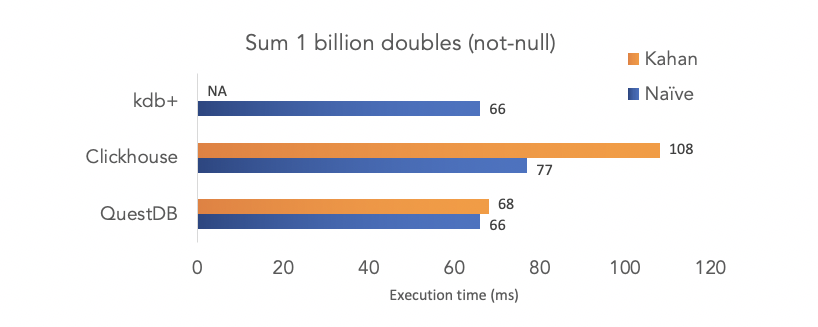
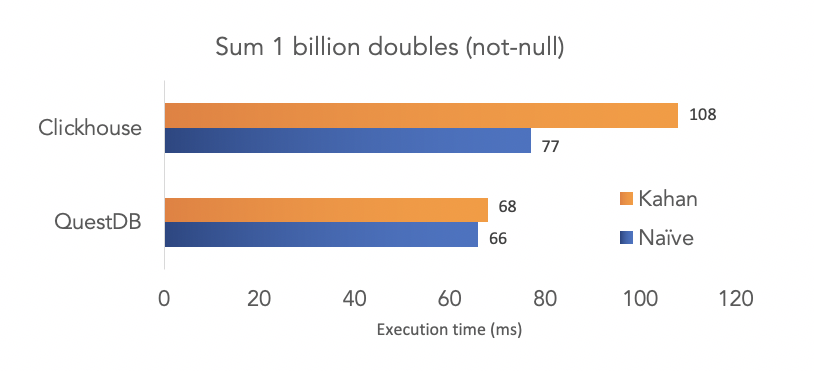
Deploy website
Deploy website version based on e8d3351652449071a6db6250c95f780d441726ca

diff --git a/blog/2020/05/01/faster-more-accurate-sums.html b/blog/2020/05/01/faster-more-accurate-sums.html
@@ -296,7 +296,7 @@ fast as Kahan for the same reason.</strong></p>
 <p>We compared how performance behaves when switching from naive (inaccurate) sum to kahan compensated sum.</p>
 <h4><a class="anchor" aria-hidden="true" id="hardware"></a><a href="#hardware" aria-hidden="true" class="hash-link"><svg class="hash-link-icon" aria-hidden="true" height="16" version="1.1" viewBox="0 0 16 16" width="16"><path fill-rule="evenodd" d="M4 9h1v1H4c-1.5 0-3-1.69-3-3.5S2.55 3 4 3h4c1.45 0 3 1.69 3 3.5 0 1.41-.91 2.72-2 3.25V8.59c.58-.45 1-1.27 1-2.09C10 5.22 8.98 4 8 4H4c-.98 0-2 1.22-2 2.5S3 9 4 9zm9-3h-1v1h1c1 0 2 1.22 2 2.5S13.98 12 13 12H9c-.98 0-2-1.22-2-2.5 0-.83.42-1.64 1-2.09V6.25c-1.09.53-2 1.84-2 3.25C6 11.31 7.55 13 9 13h4c1.45 0 3-1.69 3-3.5S14.5 6 13 6z"></path></svg></a>Hardware</h4>
 <p>We run all databases on an <code>c5.metal</code> AWS instance, which is a 96-thread machine with 192GB of memory.
-QuestDB and KDB were running on 16 threads. As we showed in a <a href="2020-04-02-using-simd-to-aggregate-billions-of-rows-per-second.md">previous article</a>,
+QuestDB was running on 16 threads. As we showed in a <a href="2020-04-02-using-simd-to-aggregate-billions-of-rows-per-second.md">previous article</a>,
 adding more threads does not improve performance beyond a certain point. Clickhouse was running using all cores as per default configuration,
 however we increased the memory limit from the default value of 10GB to 40GB <code>&lt;max_memory_usage&gt;40000000000&lt;/max_memory_usage&gt;</code></p>
 <h4><a class="anchor" aria-hidden="true" id="test-data"></a><a href="#test-data" aria-hidden="true" class="hash-link"><svg class="hash-link-icon" aria-hidden="true" height="16" version="1.1" viewBox="0 0 16 16" width="16"><path fill-rule="evenodd" d="M4 9h1v1H4c-1.5 0-3-1.69-3-3.5S2.55 3 4 3h4c1.45 0 3 1.69 3 3.5 0 1.41-.91 2.72-2 3.25V8.59c.58-.45 1-1.27 1-2.09C10 5.22 8.98 4 8 4H4c-.98 0-2 1.22-2 2.5S3 9 4 9zm9-3h-1v1h1c1 0 2 1.22 2 2.5S13.98 12 13 12H9c-.98 0-2-1.22-2-2.5 0-.83.42-1.64 1-2.09V6.25c-1.09.53-2 1.84-2 3.25C6 11.31 7.55 13 9 13h4c1.45 0 3-1.69 3-3.5S14.5 6 13 6z"></path></svg></a>Test data</h4>
@@ -308,24 +308,23 @@ select rnd_double(2) from long_sequence(1_000_000_000l); -- with nulls
 <h4><a class="anchor" aria-hidden="true" id="storage-engine"></a><a href="#storage-engine" aria-hidden="true" class="hash-link"><svg class="hash-link-icon" aria-hidden="true" height="16" version="1.1" viewBox="0 0 16 16" width="16"><path fill-rule="evenodd" d="M4 9h1v1H4c-1.5 0-3-1.69-3-3.5S2.55 3 4 3h4c1.45 0 3 1.69 3 3.5 0 1.41-.91 2.72-2 3.25V8.59c.58-.45 1-1.27 1-2.09C10 5.22 8.98 4 8 4H4c-.98 0-2 1.22-2 2.5S3 9 4 9zm9-3h-1v1h1c1 0 2 1.22 2 2.5S13.98 12 13 12H9c-.98 0-2-1.22-2-2.5 0-.83.42-1.64 1-2.09V6.25c-1.09.53-2 1.84-2 3.25C6 11.31 7.55 13 9 13h4c1.45 0 3-1.69 3-3.5S14.5 6 13 6z"></path></svg></a>Storage engine</h4>
 <ul>
 <li><strong>QuestDB</strong>: on disk</li>
-<li><strong>kdb+</strong>: in memory as an array</li>
 <li><strong>Clickhouse</strong>: in memory using the <code>memory()</code> engine</li>
 </ul>
 <blockquote>
-<p>We used the fastest method available for all databases. However, it is worth noting that both kdb and Clickhouse were
+<p>We used the fastest method available for all databases. However, it is worth noting that Clickhouse was
 in-memory while QuestDB was storing the data on disk.</p>
 </blockquote>
 <h4><a class="anchor" aria-hidden="true" id="commands"></a><a href="#commands" aria-hidden="true" class="hash-link"><svg class="hash-link-icon" aria-hidden="true" height="16" version="1.1" viewBox="0 0 16 16" width="16"><path fill-rule="evenodd" d="M4 9h1v1H4c-1.5 0-3-1.69-3-3.5S2.55 3 4 3h4c1.45 0 3 1.69 3 3.5 0 1.41-.91 2.72-2 3.25V8.59c.58-.45 1-1.27 1-2.09C10 5.22 8.98 4 8 4H4c-.98 0-2 1.22-2 2.5S3 9 4 9zm9-3h-1v1h1c1 0 2 1.22 2 2.5S13.98 12 13 12H9c-.98 0-2-1.22-2-2.5 0-.83.42-1.64 1-2.09V6.25c-1.09.53-2 1.84-2 3.25C6 11.31 7.55 13 9 13h4c1.45 0 3-1.69 3-3.5S14.5 6 13 6z"></path></svg></a>Commands</h4>
 <h5><a class="anchor" aria-hidden="true" id="with-null"></a><a href="#with-null" aria-hidden="true" class="hash-link"><svg class="hash-link-icon" aria-hidden="true" height="16" version="1.1" viewBox="0 0 16 16" width="16"><path fill-rule="evenodd" d="M4 9h1v1H4c-1.5 0-3-1.69-3-3.5S2.55 3 4 3h4c1.45 0 3 1.69 3 3.5 0 1.41-.91 2.72-2 3.25V8.59c.58-.45 1-1.27 1-2.09C10 5.22 8.98 4 8 4H4c-.98 0-2 1.22-2 2.5S3 9 4 9zm9-3h-1v1h1c1 0 2 1.22 2 2.5S13.98 12 13 12H9c-.98 0-2-1.22-2-2.5 0-.83.42-1.64 1-2.09V6.25c-1.09.53-2 1.84-2 3.25C6 11.31 7.55 13 9 13h4c1.45 0 3-1.69 3-3.5S14.5 6 13 6z"></path></svg></a>With null</h5>
 <table>
 <thead>
-<tr><th>Description</th><th>QuestDB</th><th>Clickhouse</th><th>kdb+</th></tr>
+<tr><th>Description</th><th>QuestDB</th><th>Clickhouse</th></tr>
 </thead>
 <tbody>
-<tr><td>DDL</td><td><code>create table test_double as(select rnd_double() from long_sequence(1000000000L);</code></td><td><code>CREATE TABLE test_double (val Nullable(Float64)) Engine=Memory;</code></td><td><code>zz:1000000000?1000.0</code> <code>zz:?[zz&lt;100;0Nf;zz]</code></td></tr>
-<tr><td>Import</td><td>not required</td><td><code>clickhouse-client --query=&quot;INSERT INTO test_double FORMAT CSVWithNames;&quot; &lt; test_double.csv</code></td><td>not required</td></tr>
-<tr><td>Naive sum</td><td><code>select sum(val) from test_double</code></td><td><code>SELECT sum(val) FROM test_double</code></td><td><code>\t sum zz</code></td></tr>
-<tr><td>Kahan sum</td><td><code>select ksum(val) from test_double</code></td><td><code>SELECT sumKahan(val) FROM test_double</code></td><td>n/a</td></tr>
+<tr><td>DDL</td><td><code>create table test_double as(select rnd_double() from long_sequence(1000000000L);</code></td><td><code>CREATE TABLE test_double (val Nullable(Float64)) Engine=Memory;</code></td></tr>
+<tr><td>Import</td><td>not required</td><td><code>clickhouse-client --query=&quot;INSERT INTO test_double FORMAT CSVWithNames;&quot; &lt; test_double.csv</code></td></tr>
+<tr><td>Naive sum</td><td><code>select sum(val) from test_double</code></td><td><code>SELECT sum(val) FROM test_double</code></td></tr>
+<tr><td>Kahan sum</td><td><code>select ksum(val) from test_double</code></td><td><code>SELECT sumKahan(val) FROM test_double</code></td></tr>
 </tbody>
 </table>
 <h5><a class="anchor" aria-hidden="true" id="non-null"></a><a href="#non-null" aria-hidden="true" class="hash-link"><svg class="hash-link-icon" aria-hidden="true" height="16" version="1.1" viewBox="0 0 16 16" width="16"><path fill-rule="evenodd" d="M4 9h1v1H4c-1.5 0-3-1.69-3-3.5S2.55 3 4 3h4c1.45 0 3 1.69 3 3.5 0 1.41-.91 2.72-2 3.25V8.59c.58-.45 1-1.27 1-2.09C10 5.22 8.98 4 8 4H4c-.98 0-2 1.22-2 2.5S3 9 4 9zm9-3h-1v1h1c1 0 2 1.22 2 2.5S13.98 12 13 12H9c-.98 0-2-1.22-2-2.5 0-.83.42-1.64 1-2.09V6.25c-1.09.53-2 1.84-2 3.25C6 11.31 7.55 13 9 13h4c1.45 0 3-1.69 3-3.5S14.5 6 13 6z"></path></svg></a>Non-null</h5>
@@ -333,16 +332,14 @@ in-memory while QuestDB was storing the data on disk.</p>
 <ul>
 <li>use <code>test_double_not_nul.csv</code> instead of <code>test_double.csv</code>.</li>
 <li>for Clickhouse, skip declaring val as <code>nullable</code>: <code>CREATE TABLE test_double_not_null (val Float64) Engine=Memory;</code>.</li>
-<li>for kdb+, only run <code>zz:1000000000?1000.0</code> at the DDL step.</li>
 <li>for QuestDB, replace <code>rnd_double()</code> by <code>rnd_double(2)</code> at the DDL step.</li>
 </ul>
 <h4><a class="anchor" aria-hidden="true" id="results"></a><a href="#results" aria-hidden="true" class="hash-link"><svg class="hash-link-icon" aria-hidden="true" height="16" version="1.1" viewBox="0 0 16 16" width="16"><path fill-rule="evenodd" d="M4 9h1v1H4c-1.5 0-3-1.69-3-3.5S2.55 3 4 3h4c1.45 0 3 1.69 3 3.5 0 1.41-.91 2.72-2 3.25V8.59c.58-.45 1-1.27 1-2.09C10 5.22 8.98 4 8 4H4c-.98 0-2 1.22-2 2.5S3 9 4 9zm9-3h-1v1h1c1 0 2 1.22 2 2.5S13.98 12 13 12H9c-.98 0-2-1.22-2-2.5 0-.83.42-1.64 1-2.09V6.25c-1.09.53-2 1.84-2 3.25C6 11.31 7.55 13 9 13h4c1.45 0 3-1.69 3-3.5S14.5 6 13 6z"></path></svg></a>Results</h4>
 <p>We ran each query several times and took the best result.</p>
 <p>Without null values, the three databases are summing naively at roughly the same speed. When using Kahan summation,
-QuestDB performs at the same speed and Clickhouse takes a performance hit of around 40%. kdb+ does not offer Kahan summation but is listed for reference.</p>
+QuestDB performs at the same speed and Clickhouse takes a performance hit of around 40%.</p>
 <p><img src="/blog/assets/kahan-naive-not-null.png" alt="alt-text"></p>
-<p>With null values, kdb takes a performance hit of 220% on naive calculation and Clickhouse of 28% and 50% for naive and Kahan summation
-respectively.</p>
+<p>With null values, Clickhouse takes a performance hit of 28% and 50% for naive and Kahan summation respectively.</p>
 <p><img src="/blog/assets/kahan-naive-null.png" alt="alt-text"></p>
 <p>We are conscious that this benchmark is not representative of any particular use case. We chose this test because
 it is a basic query, and is trivial to reproduce. With more complex queries, we expect QuestDB's performance gap to compound.

diff --git a/blog/2020/05/01/faster-more-accurate-sums/index.html b/blog/2020/05/01/faster-more-accurate-sums/index.html
@@ -296,7 +296,7 @@ fast as Kahan for the same reason.</strong></p>
 <p>We compared how performance behaves when switching from naive (inaccurate) sum to kahan compensated sum.</p>
 <h4><a class="anchor" aria-hidden="true" id="hardware"></a><a href="#hardware" aria-hidden="true" class="hash-link"><svg class="hash-link-icon" aria-hidden="true" height="16" version="1.1" viewBox="0 0 16 16" width="16"><path fill-rule="evenodd" d="M4 9h1v1H4c-1.5 0-3-1.69-3-3.5S2.55 3 4 3h4c1.45 0 3 1.69 3 3.5 0 1.41-.91 2.72-2 3.25V8.59c.58-.45 1-1.27 1-2.09C10 5.22 8.98 4 8 4H4c-.98 0-2 1.22-2 2.5S3 9 4 9zm9-3h-1v1h1c1 0 2 1.22 2 2.5S13.98 12 13 12H9c-.98 0-2-1.22-2-2.5 0-.83.42-1.64 1-2.09V6.25c-1.09.53-2 1.84-2 3.25C6 11.31 7.55 13 9 13h4c1.45 0 3-1.69 3-3.5S14.5 6 13 6z"></path></svg></a>Hardware</h4>
 <p>We run all databases on an <code>c5.metal</code> AWS instance, which is a 96-thread machine with 192GB of memory.
-QuestDB and KDB were running on 16 threads. As we showed in a <a href="2020-04-02-using-simd-to-aggregate-billions-of-rows-per-second.md">previous article</a>,
+QuestDB was running on 16 threads. As we showed in a <a href="2020-04-02-using-simd-to-aggregate-billions-of-rows-per-second.md">previous article</a>,
 adding more threads does not improve performance beyond a certain point. Clickhouse was running using all cores as per default configuration,
 however we increased the memory limit from the default value of 10GB to 40GB <code>&lt;max_memory_usage&gt;40000000000&lt;/max_memory_usage&gt;</code></p>
 <h4><a class="anchor" aria-hidden="true" id="test-data"></a><a href="#test-data" aria-hidden="true" class="hash-link"><svg class="hash-link-icon" aria-hidden="true" height="16" version="1.1" viewBox="0 0 16 16" width="16"><path fill-rule="evenodd" d="M4 9h1v1H4c-1.5 0-3-1.69-3-3.5S2.55 3 4 3h4c1.45 0 3 1.69 3 3.5 0 1.41-.91 2.72-2 3.25V8.59c.58-.45 1-1.27 1-2.09C10 5.22 8.98 4 8 4H4c-.98 0-2 1.22-2 2.5S3 9 4 9zm9-3h-1v1h1c1 0 2 1.22 2 2.5S13.98 12 13 12H9c-.98 0-2-1.22-2-2.5 0-.83.42-1.64 1-2.09V6.25c-1.09.53-2 1.84-2 3.25C6 11.31 7.55 13 9 13h4c1.45 0 3-1.69 3-3.5S14.5 6 13 6z"></path></svg></a>Test data</h4>
@@ -308,24 +308,23 @@ select rnd_double(2) from long_sequence(1_000_000_000l); -- with nulls
 <h4><a class="anchor" aria-hidden="true" id="storage-engine"></a><a href="#storage-engine" aria-hidden="true" class="hash-link"><svg class="hash-link-icon" aria-hidden="true" height="16" version="1.1" viewBox="0 0 16 16" width="16"><path fill-rule="evenodd" d="M4 9h1v1H4c-1.5 0-3-1.69-3-3.5S2.55 3 4 3h4c1.45 0 3 1.69 3 3.5 0 1.41-.91 2.72-2 3.25V8.59c.58-.45 1-1.27 1-2.09C10 5.22 8.98 4 8 4H4c-.98 0-2 1.22-2 2.5S3 9 4 9zm9-3h-1v1h1c1 0 2 1.22 2 2.5S13.98 12 13 12H9c-.98 0-2-1.22-2-2.5 0-.83.42-1.64 1-2.09V6.25c-1.09.53-2 1.84-2 3.25C6 11.31 7.55 13 9 13h4c1.45 0 3-1.69 3-3.5S14.5 6 13 6z"></path></svg></a>Storage engine</h4>
 <ul>
 <li><strong>QuestDB</strong>: on disk</li>
-<li><strong>kdb+</strong>: in memory as an array</li>
 <li><strong>Clickhouse</strong>: in memory using the <code>memory()</code> engine</li>
 </ul>
 <blockquote>
-<p>We used the fastest method available for all databases. However, it is worth noting that both kdb and Clickhouse were
+<p>We used the fastest method available for all databases. However, it is worth noting that Clickhouse was
 in-memory while QuestDB was storing the data on disk.</p>
 </blockquote>
 <h4><a class="anchor" aria-hidden="true" id="commands"></a><a href="#commands" aria-hidden="true" class="hash-link"><svg class="hash-link-icon" aria-hidden="true" height="16" version="1.1" viewBox="0 0 16 16" width="16"><path fill-rule="evenodd" d="M4 9h1v1H4c-1.5 0-3-1.69-3-3.5S2.55 3 4 3h4c1.45 0 3 1.69 3 3.5 0 1.41-.91 2.72-2 3.25V8.59c.58-.45 1-1.27 1-2.09C10 5.22 8.98 4 8 4H4c-.98 0-2 1.22-2 2.5S3 9 4 9zm9-3h-1v1h1c1 0 2 1.22 2 2.5S13.98 12 13 12H9c-.98 0-2-1.22-2-2.5 0-.83.42-1.64 1-2.09V6.25c-1.09.53-2 1.84-2 3.25C6 11.31 7.55 13 9 13h4c1.45 0 3-1.69 3-3.5S14.5 6 13 6z"></path></svg></a>Commands</h4>
 <h5><a class="anchor" aria-hidden="true" id="with-null"></a><a href="#with-null" aria-hidden="true" class="hash-link"><svg class="hash-link-icon" aria-hidden="true" height="16" version="1.1" viewBox="0 0 16 16" width="16"><path fill-rule="evenodd" d="M4 9h1v1H4c-1.5 0-3-1.69-3-3.5S2.55 3 4 3h4c1.45 0 3 1.69 3 3.5 0 1.41-.91 2.72-2 3.25V8.59c.58-.45 1-1.27 1-2.09C10 5.22 8.98 4 8 4H4c-.98 0-2 1.22-2 2.5S3 9 4 9zm9-3h-1v1h1c1 0 2 1.22 2 2.5S13.98 12 13 12H9c-.98 0-2-1.22-2-2.5 0-.83.42-1.64 1-2.09V6.25c-1.09.53-2 1.84-2 3.25C6 11.31 7.55 13 9 13h4c1.45 0 3-1.69 3-3.5S14.5 6 13 6z"></path></svg></a>With null</h5>
 <table>
 <thead>
-<tr><th>Description</th><th>QuestDB</th><th>Clickhouse</th><th>kdb+</th></tr>
+<tr><th>Description</th><th>QuestDB</th><th>Clickhouse</th></tr>
 </thead>
 <tbody>
-<tr><td>DDL</td><td><code>create table test_double as(select rnd_double() from long_sequence(1000000000L);</code></td><td><code>CREATE TABLE test_double (val Nullable(Float64)) Engine=Memory;</code></td><td><code>zz:1000000000?1000.0</code> <code>zz:?[zz&lt;100;0Nf;zz]</code></td></tr>
-<tr><td>Import</td><td>not required</td><td><code>clickhouse-client --query=&quot;INSERT INTO test_double FORMAT CSVWithNames;&quot; &lt; test_double.csv</code></td><td>not required</td></tr>
-<tr><td>Naive sum</td><td><code>select sum(val) from test_double</code></td><td><code>SELECT sum(val) FROM test_double</code></td><td><code>\t sum zz</code></td></tr>
-<tr><td>Kahan sum</td><td><code>select ksum(val) from test_double</code></td><td><code>SELECT sumKahan(val) FROM test_double</code></td><td>n/a</td></tr>
+<tr><td>DDL</td><td><code>create table test_double as(select rnd_double() from long_sequence(1000000000L);</code></td><td><code>CREATE TABLE test_double (val Nullable(Float64)) Engine=Memory;</code></td></tr>
+<tr><td>Import</td><td>not required</td><td><code>clickhouse-client --query=&quot;INSERT INTO test_double FORMAT CSVWithNames;&quot; &lt; test_double.csv</code></td></tr>
+<tr><td>Naive sum</td><td><code>select sum(val) from test_double</code></td><td><code>SELECT sum(val) FROM test_double</code></td></tr>
+<tr><td>Kahan sum</td><td><code>select ksum(val) from test_double</code></td><td><code>SELECT sumKahan(val) FROM test_double</code></td></tr>
 </tbody>
 </table>
 <h5><a class="anchor" aria-hidden="true" id="non-null"></a><a href="#non-null" aria-hidden="true" class="hash-link"><svg class="hash-link-icon" aria-hidden="true" height="16" version="1.1" viewBox="0 0 16 16" width="16"><path fill-rule="evenodd" d="M4 9h1v1H4c-1.5 0-3-1.69-3-3.5S2.55 3 4 3h4c1.45 0 3 1.69 3 3.5 0 1.41-.91 2.72-2 3.25V8.59c.58-.45 1-1.27 1-2.09C10 5.22 8.98 4 8 4H4c-.98 0-2 1.22-2 2.5S3 9 4 9zm9-3h-1v1h1c1 0 2 1.22 2 2.5S13.98 12 13 12H9c-.98 0-2-1.22-2-2.5 0-.83.42-1.64 1-2.09V6.25c-1.09.53-2 1.84-2 3.25C6 11.31 7.55 13 9 13h4c1.45 0 3-1.69 3-3.5S14.5 6 13 6z"></path></svg></a>Non-null</h5>
@@ -333,16 +332,14 @@ in-memory while QuestDB was storing the data on disk.</p>
 <ul>
 <li>use <code>test_double_not_nul.csv</code> instead of <code>test_double.csv</code>.</li>
 <li>for Clickhouse, skip declaring val as <code>nullable</code>: <code>CREATE TABLE test_double_not_null (val Float64) Engine=Memory;</code>.</li>
-<li>for kdb+, only run <code>zz:1000000000?1000.0</code> at the DDL step.</li>
 <li>for QuestDB, replace <code>rnd_double()</code> by <code>rnd_double(2)</code> at the DDL step.</li>
 </ul>
 <h4><a class="anchor" aria-hidden="true" id="results"></a><a href="#results" aria-hidden="true" class="hash-link"><svg class="hash-link-icon" aria-hidden="true" height="16" version="1.1" viewBox="0 0 16 16" width="16"><path fill-rule="evenodd" d="M4 9h1v1H4c-1.5 0-3-1.69-3-3.5S2.55 3 4 3h4c1.45 0 3 1.69 3 3.5 0 1.41-.91 2.72-2 3.25V8.59c.58-.45 1-1.27 1-2.09C10 5.22 8.98 4 8 4H4c-.98 0-2 1.22-2 2.5S3 9 4 9zm9-3h-1v1h1c1 0 2 1.22 2 2.5S13.98 12 13 12H9c-.98 0-2-1.22-2-2.5 0-.83.42-1.64 1-2.09V6.25c-1.09.53-2 1.84-2 3.25C6 11.31 7.55 13 9 13h4c1.45 0 3-1.69 3-3.5S14.5 6 13 6z"></path></svg></a>Results</h4>
 <p>We ran each query several times and took the best result.</p>
 <p>Without null values, the three databases are summing naively at roughly the same speed. When using Kahan summation,
-QuestDB performs at the same speed and Clickhouse takes a performance hit of around 40%. kdb+ does not offer Kahan summation but is listed for reference.</p>
+QuestDB performs at the same speed and Clickhouse takes a performance hit of around 40%.</p>
 <p><img src="/blog/assets/kahan-naive-not-null.png" alt="alt-text"></p>
-<p>With null values, kdb takes a performance hit of 220% on naive calculation and Clickhouse of 28% and 50% for naive and Kahan summation
-respectively.</p>
+<p>With null values, Clickhouse takes a performance hit of 28% and 50% for naive and Kahan summation respectively.</p>
 <p><img src="/blog/assets/kahan-naive-null.png" alt="alt-text"></p>
 <p>We are conscious that this benchmark is not representative of any particular use case. We chose this test because
 it is a basic query, and is trivial to reproduce. With more complex queries, we expect QuestDB's performance gap to compound.

diff --git a/blog/index.html b/blog/index.html
@@ -296,7 +296,7 @@ fast as Kahan for the same reason.</strong></p>
 <p>We compared how performance behaves when switching from naive (inaccurate) sum to kahan compensated sum.</p>
 <h4><a class="anchor" aria-hidden="true" id="hardware"></a><a href="#hardware" aria-hidden="true" class="hash-link"><svg class="hash-link-icon" aria-hidden="true" height="16" version="1.1" viewBox="0 0 16 16" width="16"><path fill-rule="evenodd" d="M4 9h1v1H4c-1.5 0-3-1.69-3-3.5S2.55 3 4 3h4c1.45 0 3 1.69 3 3.5 0 1.41-.91 2.72-2 3.25V8.59c.58-.45 1-1.27 1-2.09C10 5.22 8.98 4 8 4H4c-.98 0-2 1.22-2 2.5S3 9 4 9zm9-3h-1v1h1c1 0 2 1.22 2 2.5S13.98 12 13 12H9c-.98 0-2-1.22-2-2.5 0-.83.42-1.64 1-2.09V6.25c-1.09.53-2 1.84-2 3.25C6 11.31 7.55 13 9 13h4c1.45 0 3-1.69 3-3.5S14.5 6 13 6z"></path></svg></a>Hardware</h4>
 <p>We run all databases on an <code>c5.metal</code> AWS instance, which is a 96-thread machine with 192GB of memory.
-QuestDB and KDB were running on 16 threads. As we showed in a <a href="2020-04-02-using-simd-to-aggregate-billions-of-rows-per-second.md">previous article</a>,
+QuestDB was running on 16 threads. As we showed in a <a href="2020-04-02-using-simd-to-aggregate-billions-of-rows-per-second.md">previous article</a>,
 adding more threads does not improve performance beyond a certain point. Clickhouse was running using all cores as per default configuration,
 however we increased the memory limit from the default value of 10GB to 40GB <code>&lt;max_memory_usage&gt;40000000000&lt;/max_memory_usage&gt;</code></p>
 <h4><a class="anchor" aria-hidden="true" id="test-data"></a><a href="#test-data" aria-hidden="true" class="hash-link"><svg class="hash-link-icon" aria-hidden="true" height="16" version="1.1" viewBox="0 0 16 16" width="16"><path fill-rule="evenodd" d="M4 9h1v1H4c-1.5 0-3-1.69-3-3.5S2.55 3 4 3h4c1.45 0 3 1.69 3 3.5 0 1.41-.91 2.72-2 3.25V8.59c.58-.45 1-1.27 1-2.09C10 5.22 8.98 4 8 4H4c-.98 0-2 1.22-2 2.5S3 9 4 9zm9-3h-1v1h1c1 0 2 1.22 2 2.5S13.98 12 13 12H9c-.98 0-2-1.22-2-2.5 0-.83.42-1.64 1-2.09V6.25c-1.09.53-2 1.84-2 3.25C6 11.31 7.55 13 9 13h4c1.45 0 3-1.69 3-3.5S14.5 6 13 6z"></path></svg></a>Test data</h4>
@@ -308,24 +308,23 @@ select rnd_double(2) from long_sequence(1_000_000_000l); -- with nulls
 <h4><a class="anchor" aria-hidden="true" id="storage-engine"></a><a href="#storage-engine" aria-hidden="true" class="hash-link"><svg class="hash-link-icon" aria-hidden="true" height="16" version="1.1" viewBox="0 0 16 16" width="16"><path fill-rule="evenodd" d="M4 9h1v1H4c-1.5 0-3-1.69-3-3.5S2.55 3 4 3h4c1.45 0 3 1.69 3 3.5 0 1.41-.91 2.72-2 3.25V8.59c.58-.45 1-1.27 1-2.09C10 5.22 8.98 4 8 4H4c-.98 0-2 1.22-2 2.5S3 9 4 9zm9-3h-1v1h1c1 0 2 1.22 2 2.5S13.98 12 13 12H9c-.98 0-2-1.22-2-2.5 0-.83.42-1.64 1-2.09V6.25c-1.09.53-2 1.84-2 3.25C6 11.31 7.55 13 9 13h4c1.45 0 3-1.69 3-3.5S14.5 6 13 6z"></path></svg></a>Storage engine</h4>
 <ul>
 <li><strong>QuestDB</strong>: on disk</li>
-<li><strong>kdb+</strong>: in memory as an array</li>
 <li><strong>Clickhouse</strong>: in memory using the <code>memory()</code> engine</li>
 </ul>
 <blockquote>
-<p>We used the fastest method available for all databases. However, it is worth noting that both kdb and Clickhouse were
+<p>We used the fastest method available for all databases. However, it is worth noting that Clickhouse was
 in-memory while QuestDB was storing the data on disk.</p>
 </blockquote>
 <h4><a class="anchor" aria-hidden="true" id="commands"></a><a href="#commands" aria-hidden="true" class="hash-link"><svg class="hash-link-icon" aria-hidden="true" height="16" version="1.1" viewBox="0 0 16 16" width="16"><path fill-rule="evenodd" d="M4 9h1v1H4c-1.5 0-3-1.69-3-3.5S2.55 3 4 3h4c1.45 0 3 1.69 3 3.5 0 1.41-.91 2.72-2 3.25V8.59c.58-.45 1-1.27 1-2.09C10 5.22 8.98 4 8 4H4c-.98 0-2 1.22-2 2.5S3 9 4 9zm9-3h-1v1h1c1 0 2 1.22 2 2.5S13.98 12 13 12H9c-.98 0-2-1.22-2-2.5 0-.83.42-1.64 1-2.09V6.25c-1.09.53-2 1.84-2 3.25C6 11.31 7.55 13 9 13h4c1.45 0 3-1.69 3-3.5S14.5 6 13 6z"></path></svg></a>Commands</h4>
 <h5><a class="anchor" aria-hidden="true" id="with-null"></a><a href="#with-null" aria-hidden="true" class="hash-link"><svg class="hash-link-icon" aria-hidden="true" height="16" version="1.1" viewBox="0 0 16 16" width="16"><path fill-rule="evenodd" d="M4 9h1v1H4c-1.5 0-3-1.69-3-3.5S2.55 3 4 3h4c1.45 0 3 1.69 3 3.5 0 1.41-.91 2.72-2 3.25V8.59c.58-.45 1-1.27 1-2.09C10 5.22 8.98 4 8 4H4c-.98 0-2 1.22-2 2.5S3 9 4 9zm9-3h-1v1h1c1 0 2 1.22 2 2.5S13.98 12 13 12H9c-.98 0-2-1.22-2-2.5 0-.83.42-1.64 1-2.09V6.25c-1.09.53-2 1.84-2 3.25C6 11.31 7.55 13 9 13h4c1.45 0 3-1.69 3-3.5S14.5 6 13 6z"></path></svg></a>With null</h5>
 <table>
 <thead>
-<tr><th>Description</th><th>QuestDB</th><th>Clickhouse</th><th>kdb+</th></tr>
+<tr><th>Description</th><th>QuestDB</th><th>Clickhouse</th></tr>
 </thead>
 <tbody>
-<tr><td>DDL</td><td><code>create table test_double as(select rnd_double() from long_sequence(1000000000L);</code></td><td><code>CREATE TABLE test_double (val Nullable(Float64)) Engine=Memory;</code></td><td><code>zz:1000000000?1000.0</code> <code>zz:?[zz&lt;100;0Nf;zz]</code></td></tr>
-<tr><td>Import</td><td>not required</td><td><code>clickhouse-client --query=&quot;INSERT INTO test_double FORMAT CSVWithNames;&quot; &lt; test_double.csv</code></td><td>not required</td></tr>
-<tr><td>Naive sum</td><td><code>select sum(val) from test_double</code></td><td><code>SELECT sum(val) FROM test_double</code></td><td><code>\t sum zz</code></td></tr>
-<tr><td>Kahan sum</td><td><code>select ksum(val) from test_double</code></td><td><code>SELECT sumKahan(val) FROM test_double</code></td><td>n/a</td></tr>
+<tr><td>DDL</td><td><code>create table test_double as(select rnd_double() from long_sequence(1000000000L);</code></td><td><code>CREATE TABLE test_double (val Nullable(Float64)) Engine=Memory;</code></td></tr>
+<tr><td>Import</td><td>not required</td><td><code>clickhouse-client --query=&quot;INSERT INTO test_double FORMAT CSVWithNames;&quot; &lt; test_double.csv</code></td></tr>
+<tr><td>Naive sum</td><td><code>select sum(val) from test_double</code></td><td><code>SELECT sum(val) FROM test_double</code></td></tr>
+<tr><td>Kahan sum</td><td><code>select ksum(val) from test_double</code></td><td><code>SELECT sumKahan(val) FROM test_double</code></td></tr>
 </tbody>
 </table>
 <h5><a class="anchor" aria-hidden="true" id="non-null"></a><a href="#non-null" aria-hidden="true" class="hash-link"><svg class="hash-link-icon" aria-hidden="true" height="16" version="1.1" viewBox="0 0 16 16" width="16"><path fill-rule="evenodd" d="M4 9h1v1H4c-1.5 0-3-1.69-3-3.5S2.55 3 4 3h4c1.45 0 3 1.69 3 3.5 0 1.41-.91 2.72-2 3.25V8.59c.58-.45 1-1.27 1-2.09C10 5.22 8.98 4 8 4H4c-.98 0-2 1.22-2 2.5S3 9 4 9zm9-3h-1v1h1c1 0 2 1.22 2 2.5S13.98 12 13 12H9c-.98 0-2-1.22-2-2.5 0-.83.42-1.64 1-2.09V6.25c-1.09.53-2 1.84-2 3.25C6 11.31 7.55 13 9 13h4c1.45 0 3-1.69 3-3.5S14.5 6 13 6z"></path></svg></a>Non-null</h5>
@@ -333,16 +332,14 @@ in-memory while QuestDB was storing the data on disk.</p>
 <ul>
 <li>use <code>test_double_not_nul.csv</code> instead of <code>test_double.csv</code>.</li>
 <li>for Clickhouse, skip declaring val as <code>nullable</code>: <code>CREATE TABLE test_double_not_null (val Float64) Engine=Memory;</code>.</li>
-<li>for kdb+, only run <code>zz:1000000000?1000.0</code> at the DDL step.</li>
 <li>for QuestDB, replace <code>rnd_double()</code> by <code>rnd_double(2)</code> at the DDL step.</li>
 </ul>
 <h4><a class="anchor" aria-hidden="true" id="results"></a><a href="#results" aria-hidden="true" class="hash-link"><svg class="hash-link-icon" aria-hidden="true" height="16" version="1.1" viewBox="0 0 16 16" width="16"><path fill-rule="evenodd" d="M4 9h1v1H4c-1.5 0-3-1.69-3-3.5S2.55 3 4 3h4c1.45 0 3 1.69 3 3.5 0 1.41-.91 2.72-2 3.25V8.59c.58-.45 1-1.27 1-2.09C10 5.22 8.98 4 8 4H4c-.98 0-2 1.22-2 2.5S3 9 4 9zm9-3h-1v1h1c1 0 2 1.22 2 2.5S13.98 12 13 12H9c-.98 0-2-1.22-2-2.5 0-.83.42-1.64 1-2.09V6.25c-1.09.53-2 1.84-2 3.25C6 11.31 7.55 13 9 13h4c1.45 0 3-1.69 3-3.5S14.5 6 13 6z"></path></svg></a>Results</h4>
 <p>We ran each query several times and took the best result.</p>
 <p>Without null values, the three databases are summing naively at roughly the same speed. When using Kahan summation,
-QuestDB performs at the same speed and Clickhouse takes a performance hit of around 40%. kdb+ does not offer Kahan summation but is listed for reference.</p>
+QuestDB performs at the same speed and Clickhouse takes a performance hit of around 40%.</p>
 <p><img src="/blog/assets/kahan-naive-not-null.png" alt="alt-text"></p>
-<p>With null values, kdb takes a performance hit of 220% on naive calculation and Clickhouse of 28% and 50% for naive and Kahan summation
-respectively.</p>
+<p>With null values, Clickhouse takes a performance hit of 28% and 50% for naive and Kahan summation respectively.</p>
 <p><img src="/blog/assets/kahan-naive-null.png" alt="alt-text"></p>
 <p>We are conscious that this benchmark is not representative of any particular use case. We chose this test because
 it is a basic query, and is trivial to reproduce. With more complex queries, we expect QuestDB's performance gap to compound.
